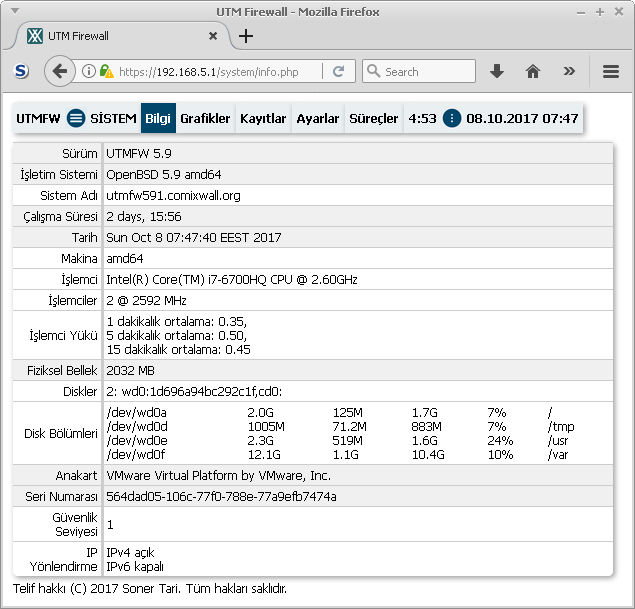
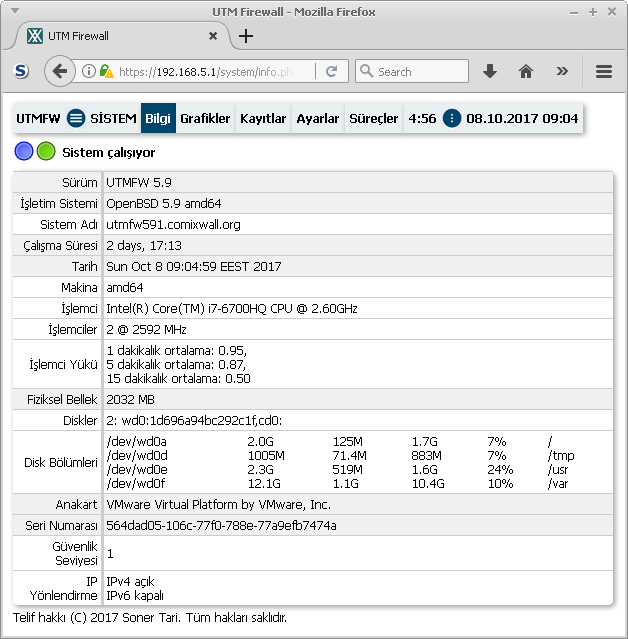
Add status form to system info page and update its screen shot

Changed region(s): [[0.0, 0.0, 0.9984, 0.9984]]

diff --git a/src/View/lib/view.php b/src/View/lib/view.php
@@ -271,7 +271,7 @@ class View
 	 * @param boolean $printcount Whether to print number of running processes too
 	 * @param boolean $showbuttons Show Start/Stop buttons
 	 */
-	function PrintStatusForm($printcount= FALSE, $showbuttons= TRUE)
+	function PrintStatusForm($printcount= FALSE, $showbuttons= TRUE, $printprocs= TRUE)
 	{
 		global $IMG_PATH, $ADMIN, $Status2Images;
 
@@ -357,7 +357,7 @@ class View
 			</tr>
 		</table>
 		<?php
-		if ($running && $this->Model != 'pf') {
+		if ($running && $printprocs) {
 			$this->Controller($output, 'GetProcList');
 			$this->PrintProcessTable(json_decode($output[0], TRUE), $printcount);
 		}

diff --git a/src/View/pf/info.pf.php b/src/View/pf/info.pf.php
@@ -34,7 +34,7 @@ $PfTimeout= implode("\n", $Output);
 $Reload= TRUE;
 require_once($VIEW_PATH . '/header.php');
 
-$View->PrintStatusForm();
+$View->PrintStatusForm(FALSE, TRUE, FALSE);
 ?>
 <table class="shadowbox" style="padding-right: 12px;">
 	<tr>

diff --git a/src/View/system/system.php b/src/View/system/system.php
@@ -50,6 +50,8 @@ $View->Controller($Output, 'GetStatus');
 
 $Reload= TRUE;
 require_once($VIEW_PATH.'/header.php');
+
+$View->PrintStatusForm(FALSE, FALSE, FALSE);
 ?>
 <table id="nvp" class="shadowbox" style="width: 600px;">
 	<tr class="oddline">
